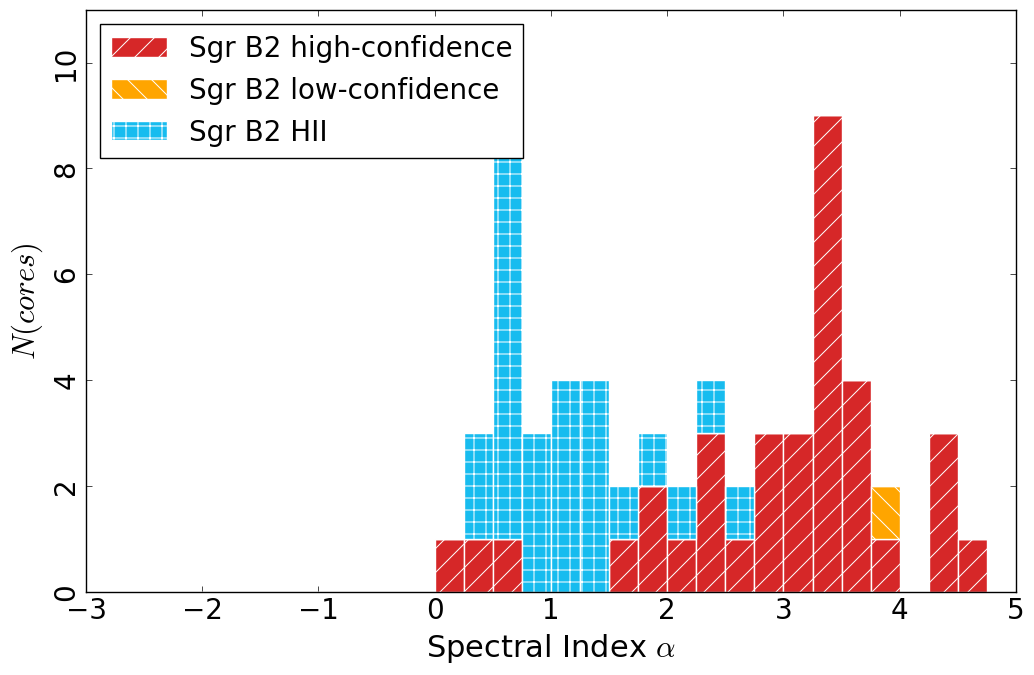
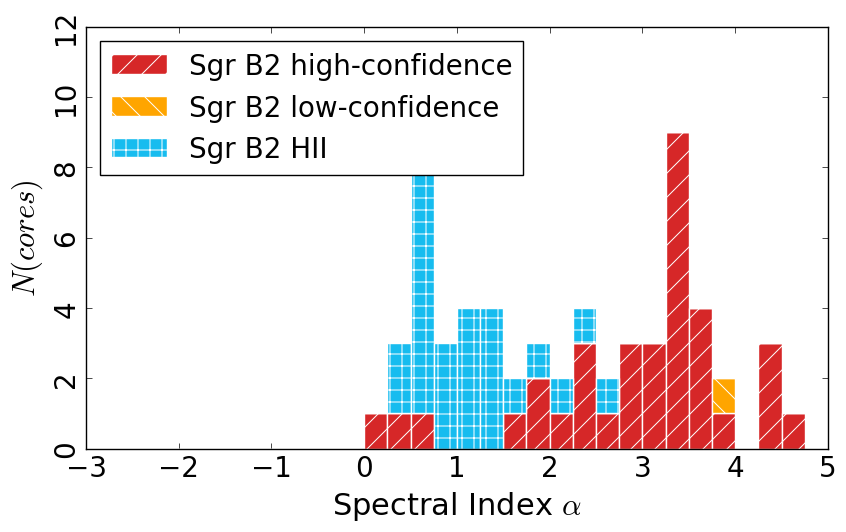
some more text and some plot cleanup

Changed region(s): [[0.0, 0.0, 1.0, 0.9925]]

diff --git a/tex_cores/sgrb2_cores.tex b/tex_cores/sgrb2_cores.tex
@@ -536,13 +536,14 @@ that the \emph{relative} spectral index measurements in our catalog should be
 accurate, since all sources come from the same map with identical calibration.
 %This is... a note for the readers of source code...
 % There is some concern about the accuracy of the $\alpha$ maps produced by
-% \texttt{tclean} for extended structures (U. Rao, private communication),
+% \texttt{tclean} for extended structures (U. Rau, private communication),
 % particularly when using the mosaic gridder, but point sources usually are not
-% significantly affected by these concerns.  We performed an additional check
+% significantly affected by these concerns.
+% We performed an additional check
 % by imaging the 90 GHz and 100 GHz sidebands as independent continuum images
 % and used their ratio to measure the spectral index; for the sources we
 % report measurements of, the two measurements are generally consistent within
-% the noise.
+% the noise. ACTUALLY THEY'RE NOT AT ALL.  See compare_spindx...
 
 \Figure{figures/cores_on_continuum_peak_DeepSouth_zoomin_legend.pdf}
 {A close-in look at the Sgr B2 DS region.  Multiple insets show identified sources
@@ -602,10 +603,10 @@ association between HC1 and our source 43 suggests that it is a YSO with a
 massive envelope.  Of the 6 \ammonia (3,3) maser sources identified
 by \citet{Martin-Pintado1999a}, three are in regions with high 3 mm source
 density but lack a clear one-to-one source association, one is coincident with
-an \hii region not in our catalog, and two have no obvious associations.  The
-\ammonia (3,3) masers therefore do not appear to be unambiguous tracers of star
-formation in this environment, consistent with the conclusions of
-\citet{Mills2015a}.  
+an extended \hii region not in our catalog, and two have no obvious
+associations.  The \ammonia (3,3) masers therefore do not appear to be
+unambiguous tracers of star formation in this environment, consistent with the
+conclusions of \citet{Mills2015a}.  
 
 
 \paragraph{6.67 GHz \methanol masers}
@@ -667,7 +668,7 @@ maps cover only a very small fraction ($\sim5\%$) of our mapped area.
 \subsection{Nature of the Continuum Sources}
 \label{sec:classification}
 The majority of the detected sources are observed only as 3 mm continuum
-sources, with no spectral line information or detections at other wavelengths.
+sources, with no spectral line information or detection at other wavelengths.
 In this section, we employ a variety of arguments to classify the sample of new
 sources.    Plausible emission mechanisms include free-free and thermal dust
 emission, so in this section we explore whether the sources could be different
@@ -742,17 +743,17 @@ before \citep[e.g.,][]{Kong2017a}, and few of those reported are so compact
 cores \citep{McKee2003a} suggest they are much larger and less concentrated
 than the sources we observe.
 
-At the high implied densities (${n(20 \mathrm{K})>10^8~\percc}$), it is unlikely
-that the cores are unbound; these sources have ${v_{esc} > 2~\kms (M/10~
-\msun)^{1/2}}$ from ${r=0.5\arcsec=4200\mathrm{~AU}$.  The high density required for our
-sources results in a short free-fall timescale, ${t_{ff}<3000 (n/10^8
-~\percc)^{-1/2}\mathrm{~yr}}$.  Assuming such cores do exist, the timescale for them to
-form a central YSO (a central heating source) is short.  While there are
-few constraints on the accreting lifetime of high-mass YSOs, that timescale is
-almost certainly 1-2 orders of magnitude longer.  For a given population of
-cores, we would expect only of order 1-10\% of them to be starless at any given
-time.  We will revisit the characteristics of centrally heated dust sources in
-Section \ref{sec:theyareprotostars} below.
+At the high implied densities (${n(20 \mathrm{K})>10^8~\percc}$), it is
+unlikely that the cores are unbound; these sources have ${v_{esc} > 2~\kms
+(M/10~ \msun)^{1/2}}$ from ${r=0.5\arcsec=4200\mathrm{~AU}}$.  The high density
+required for our sources results in a short free-fall timescale, ${t_{ff}<3000
+(n/10^8 ~\percc)^{-1/2}\mathrm{~yr}}$.  Assuming such cores do exist, the
+timescale for them to form a central YSO (a central heating source) is short.
+While there are few constraints on the accreting lifetime of high-mass YSOs,
+that timescale is almost certainly 1-2 orders of magnitude longer.  For a given
+population of cores, we would expect only of order 1-10\% of them to be
+starless at any given time.  We will revisit the characteristics of centrally
+heated dust sources in Section \ref{sec:theyareprotostars} below.
 
 
 \subsubsection{Alternative 2: The sources are externally ionized gas blobs}

diff --git a/plot_codes/core_table_plots.py b/plot_codes/core_table_plots.py
@@ -189,13 +189,15 @@ for pc, hatch in zip(p, ['/','\\','+']):
 #ax5.set_xscale('log')
 ax5.set_xlim(l[:-1][hh>0].min()*1.1, l[1:][hh>0].max()*1.1)
 ax5.set_xlim(-3.0, 5)
-ax5.set_ylim(0, 11)
+ax5.set_ylim(0, 12)
 pl.setp(ax5.get_xticklabels(), rotation='horizontal', fontsize=20)
 pl.setp(ax5.get_yticklabels(), rotation='vertical', fontsize=20)
 ax5.set_xlabel("Spectral Index $\\alpha$", fontsize=22)
 ax5.set_ylabel("$N(cores)$", fontsize=22)
-pl.legend(loc='best', fontsize=20)
-pl.legend(loc='upper left', fontsize=20)
+#pl.legend(loc='best', fontsize=20)
+leg = pl.legend(loc='upper left', fontsize=20)
+leg.set_zorder(-10)
+leg.set_frame_on(False)
 pl.savefig(paths.fpath("core_alpha_coloredbyclass.png"), bbox_inches='tight')
 
 
